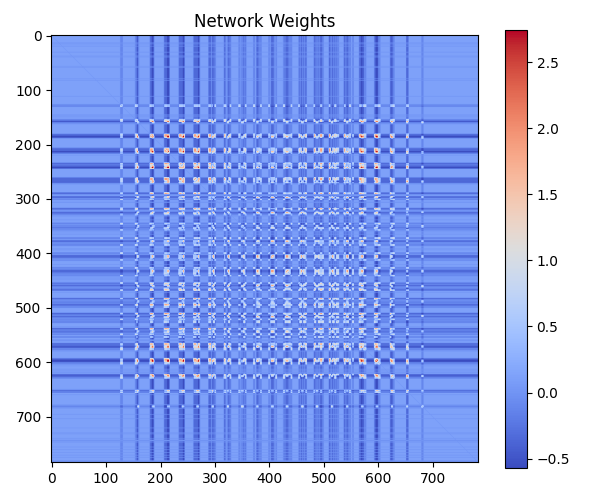
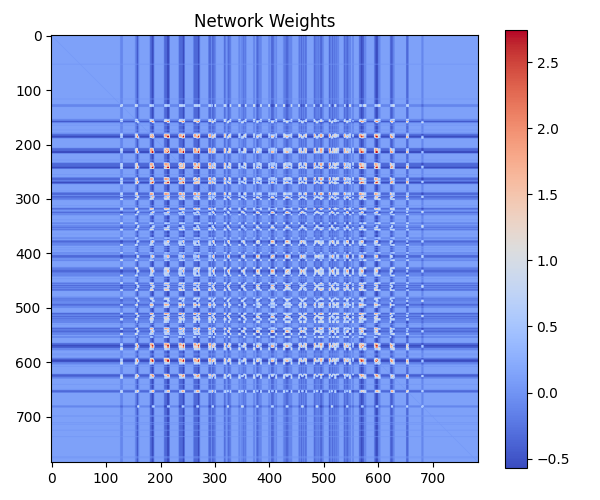
final version

diff --git a/project.py b/project.py
@@ -4,7 +4,10 @@ from skimage.filters import threshold_mean
 import Hopfieldnetwork
 import os
 import random
+# This code what mostly taken from GitHub repository https://github.com/takyamamoto/Hopfield-Network but 
+# We altered parts of the code such that it would be a better fit for our model
 
+# Importing file
 def load_mnist_images(filename):
     with open(filename, 'rb') as f:
         data = np.frombuffer(f.read(), dtype=np.uint8, offset=16)
@@ -39,6 +42,7 @@ def plot(data, test, predicted, figsize=(15, 15)):
     test = [reshape(d) for d in test]
     predicted = [reshape(d) for d in predicted]
     
+    # Setting up the image diagram. Taking the layout that was in the GitHub and altering it to contain more images
     fig, axarr = plt.subplots(len(test), 3, figsize=figsize)
     for ax_row in axarr:
         for ax in ax_row:
@@ -53,17 +57,16 @@ def plot(data, test, predicted, figsize=(15, 15)):
         axarr[i, 1].axis('off')
         axarr[i, 2].imshow(predicted[i])
         axarr[i, 2].axis('off')
-        if i in range(0, 15):  # Check if i is in the range [0, 15)
+        if i in range(0, 15): 
             axarr[i, 0].imshow(data[0])
             axarr[i, 0].axis('off')
-        elif i in range(15, 30):  # Check if i is in the range [15, 30)
+        elif i in range(15, 30): 
             axarr[i, 0].imshow(data[1])
             axarr[i, 0].axis('off')
-        elif i in range(30, 45):  # Check if i is in the range [30, 45)
+        elif i in range(30, 45): 
             axarr[i, 0].imshow(data[2])
             axarr[i, 0].axis('off')
 
-    print(len(test))
     plt.tight_layout()
     plt.savefig("result_mnist.png")
     plt.show()
@@ -92,7 +95,6 @@ def main():
 
     # Preprocessing
     print("Start to data preprocessing...")
-    print(len(data))
     data = [preprocessing(d) for d in data]
     
     # Create Hopfield Network Model
@@ -115,7 +117,8 @@ def main():
         for img in arr:
             preprocessed_img = preprocessing(img)
             # Decreased inhibition (increase input corruption)
-            corruption_probability = 0.75
+            # Implimented code to increase the corruption of the input image after the model is trained
+            corruption_probability = 0.15
             corrupted_bits = np.random.rand(*img.shape) < corruption_probability
             noisy_image = img * (1 - corrupted_bits) + (1 - img) * corrupted_bits
             test.append(preprocessing(noisy_image)) 
@@ -124,7 +127,7 @@ def main():
     print("Show prediction results...")
     plot(data, test, predicted, figsize=(10, 10))
     print("Show network weights matrix...")
-    #model.plot_weights()
+    model.plot_weights()
     
 if __name__ == '__main__':
     main()

diff --git a/3d_plot.py b/3d_plot.py
@@ -4,7 +4,7 @@ import matplotlib.pyplot as plt
 from mpl_toolkits.mplot3d import Axes3D
 from scipy.optimize import curve_fit
 
-# Read data from CSV file
+# Reading the csv file and converting the data to an array
 csv_file = '3D_plot_data.csv'
 data = []
 with open(csv_file, 'r') as file:
@@ -15,38 +15,40 @@ with open(csv_file, 'r') as file:
 
 data = np.array(data)
 
-# Extract x, y, z coordinates from the data
+# Obtaining x, y, z variables from the data
 x_values = data[:, 0]
 y_values = data[:, 1]
 z_values = data[:, 2]
 
-# Define a model function for the plane
+# Model function for the plane
 def plane_model(xy, a, b, c):
     x, y = xy
     return a * x + b * y + c
 
-# Perform multiplanar fitting
+# Multiplanar fitting
 popt, _ = curve_fit(plane_model, (x_values, y_values), z_values)
 
-# Generate points for the fitted plane
+# Generate points for the fitted plane and plot the plane
 x_plane = np.linspace(min(x_values), max(x_values), 10)
 y_plane = np.linspace(min(y_values), max(y_values), 10)
 X_plane, Y_plane = np.meshgrid(x_plane, y_plane)
 Z_plane = plane_model((X_plane, Y_plane), *popt)
 
-# Calculate R^2 value
+# Calculate Rsq value
 r_sq = 1 - np.sum((z_values - plane_model((x_values, y_values), *popt))**2) / np.sum((z_values - np.mean(z_values))**2)
 
-# Create 3D scatter plot
+# Equation of the plane
+equation = f"z = {popt[0]:.5f} * x + {popt[1]:.5f} * y + {popt[2]:.5f}"
+print("Equation of the plane:", equation)
+
+# Create the scatter and fitted curve
 fig = plt.figure()
 ax = fig.add_subplot(111, projection='3d')
 
 ax.scatter(x_values, y_values, z_values)
 
-# Plot the fitted plane
 ax.plot_surface(X_plane, Y_plane, Z_plane, alpha=0.5, color='lightblue')
 
-# Set labels and title with R^2 value
 ax.set_xlabel('Number of Neurons Deleted')
 ax.set_ylabel('Percent Corruption (%)')
 ax.set_zlabel('Percent Accuracy (%)')

diff --git a/scatter_plot.py b/scatter_plot.py
@@ -3,14 +3,19 @@ import numpy as np
 import matplotlib.pyplot as plt
 from scipy.stats import linregress
 
+# Scatter plot that consist of a fitted curve and the Rsq value
 def scatter(csv_file, x_values, y_values, x_header, y_header, plot_title):
     x_values = np.array(x_values, dtype=float)
     y_values = np.array(y_values, dtype=float)
    
     fitted_curve = np.poly1d(np.polyfit(x_values, y_values, 3))
-    
+
+    # Solving for Rsq value 
     y_fitted = fitted_curve(x_values)
     r_sq = 1 - np.sum((y_values - y_fitted)**2) / np.sum((y_values - np.mean(y_values))**2)
+
+    equation = f"y = {fitted_curve[3]:.7f}x^3 + {fitted_curve[2]:.5f}x^2 + {fitted_curve[1]:.5f}x + {fitted_curve[0]:.5f}"
+    print("Equation of the curve:", equation)
     
     plt.scatter(x_values, y_values)
     x_range = np.linspace(min(x_values), max(x_values), 100)
@@ -24,6 +29,7 @@ def scatter(csv_file, x_values, y_values, x_header, y_header, plot_title):
     plt.legend()
     plt.show()
 
+# Import csv
 csv_file = 'Scatter_plot_data.csv'
 data = []
 with open(csv_file, 'r') as file:
@@ -31,5 +37,7 @@ with open(csv_file, 'r') as file:
     headers = next(reader)
     data = list(zip(*reader))
 
+# Plot for Percent Accuracy vs Percent Corruption
 scatter(csv_file, data[0], [float(val) for val in data[1]], headers[0], headers[1], 'Percent Accuracy vs Percent Corruption')
+# Plot for Percent Accuracy vs Number of Ablated Neurons
 scatter(csv_file, data[2], [float(val) for val in data[3]], headers[2], headers[3], 'Percent Accuracy vs Number of Ablated Neurons')

diff --git a/Hopfieldnetwork.py b/Hopfieldnetwork.py
@@ -2,13 +2,14 @@ import numpy as np
 from matplotlib import pyplot as plt
 import matplotlib.cm as cm
 from tqdm import tqdm
+# This code what mostly taken from GitHub repository https://github.com/takyamamoto/Hopfield-Network but 
+# we altered parts of the code such that it would be a better fit for our model
 
 class HopfieldNetwork(object):  
     def train_weights(self, train_data):
         print("Start to train weights...")
         num_data =  len(train_data)
         self.num_neuron = train_data[0].shape[0]
-        print(self.num_neuron)
         
         # initialize weights
         W = np.zeros((self.num_neuron, self.num_neuron))
@@ -25,7 +26,8 @@ class HopfieldNetwork(object):
         W /= num_data
 
         # Ablate neurons
-        num_ablated = 500
+        # This code corresponds with our project question of limiting cognitive resources and slowering processing speed to measure accuracy
+        num_ablated = 50
         ablated_count = 0
         while ablated_count < num_ablated:
             idx = np.random.randint(0, self.num_neuron)
@@ -40,7 +42,6 @@ class HopfieldNetwork(object):
         self.threshold = threshold
         self.asyn = asyn
         
-        # Copy to avoid call by reference 
         copied_data = np.copy(data)
         
         # Define predict list
